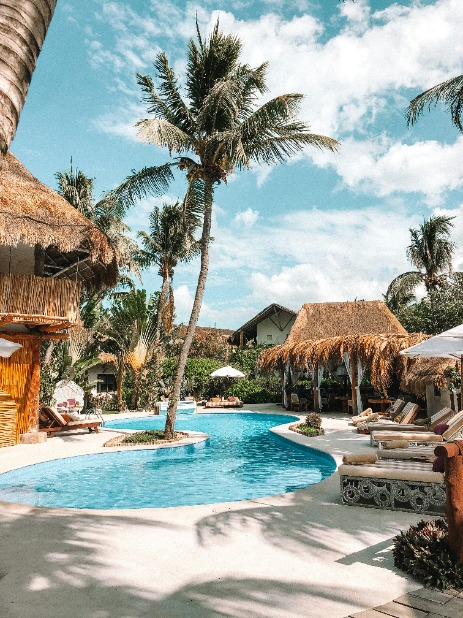
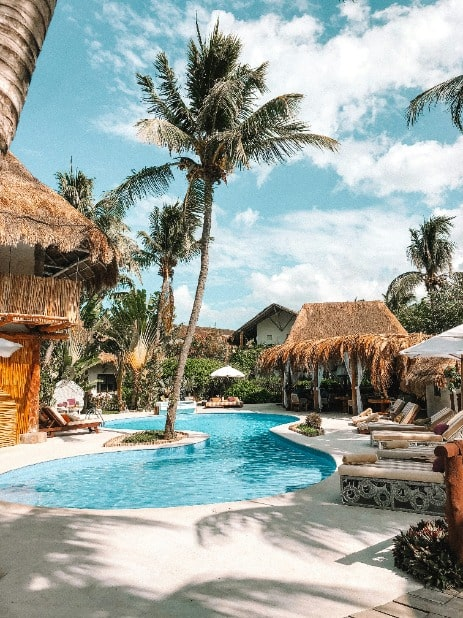
Optimizing all images and typo fix on property by ID page

diff --git a/src/app/ui/components/listing/InquireForm.tsx b/src/app/ui/components/listing/InquireForm.tsx
@@ -41,6 +41,7 @@ export default function InquireForm({
       ? {
           propertyId: listing.id,
           propertySource: listing.source,
+          propertyName: listing.name,
           name: "",
           email: "",
           phone: "",
@@ -72,9 +73,9 @@ export default function InquireForm({
         {listing ? (
           <div>
             <SimpleInput
-              name="propertyId"
+              name="propertyName"
               disabled={true}
-              defaultValue={`Property ID: ${listing.id}`}
+              defaultValue={`Property: ${listing.name}`}
             />
           </div>
         ) : null}

diff --git a/src/app/ui/components/listing/PolicyAndRules.tsx b/src/app/ui/components/listing/PolicyAndRules.tsx
@@ -15,7 +15,7 @@ export default function PolicyAndRules({ listing }: { listing: IListingData }) {
       ) : null}
       {listing.houseRules ? (
         <div className="flex flex-col gap-5">
-          <h5 className="text-2xl font-bold">Ground roules</h5>
+          <h5 className="text-2xl font-bold">Resort Rules</h5>
           <p className="text-justify">{listing.houseRules}</p>
         </div>
       ) : null}

diff --git a/src/app/ui/components/common/Navbar/NavBar.client.tsx b/src/app/ui/components/common/Navbar/NavBar.client.tsx
@@ -75,7 +75,7 @@ export default function NavBar({
             className="text-center text-sm"
             href={`/listings?fromDate=${startDate}&toDate=${endDate}&numberOfGuests=1&pageNum=1`}
           >
-            Listed places
+            Snowbird Places
           </Link>
           </div>
           <div className={`flex items-center gap-5  ${isWhiteVariant ? "text-white" : "text-black"}`}>
